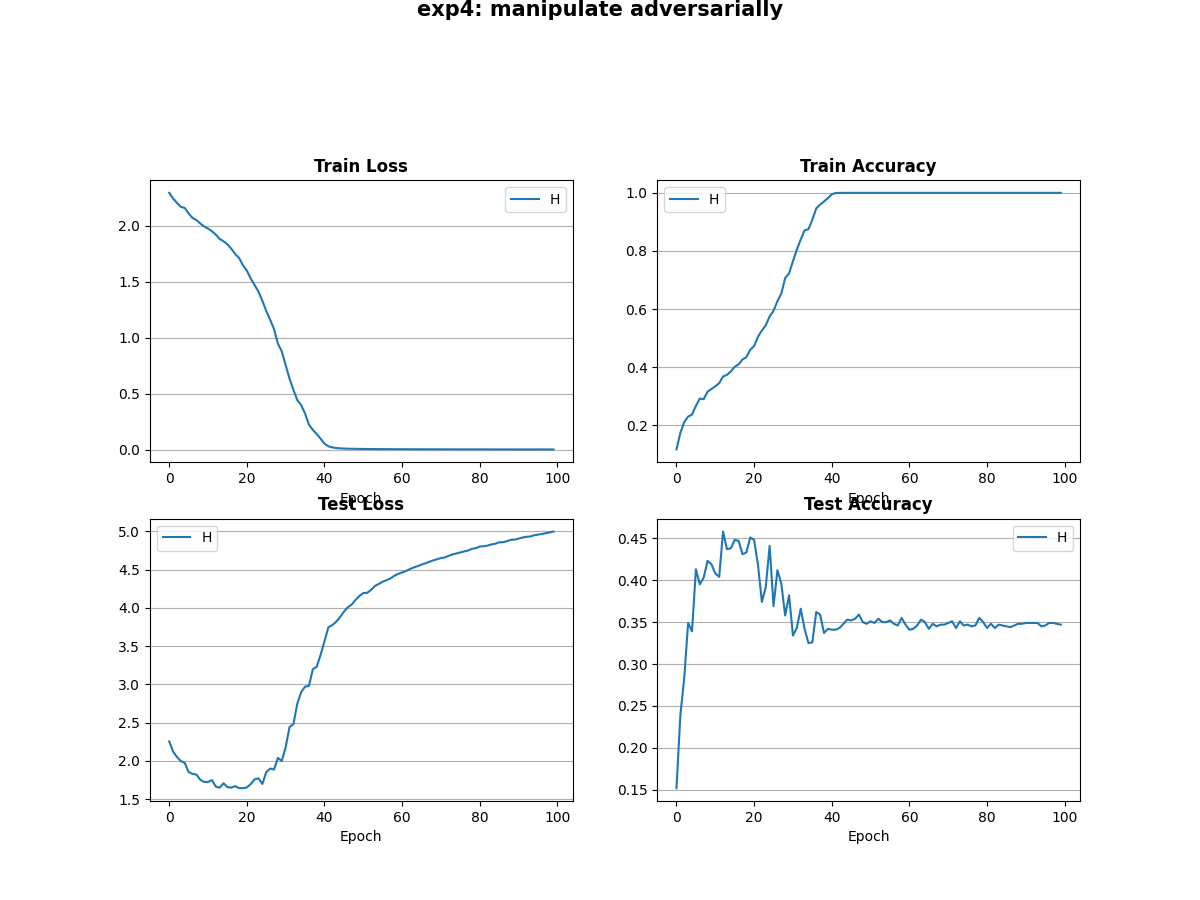
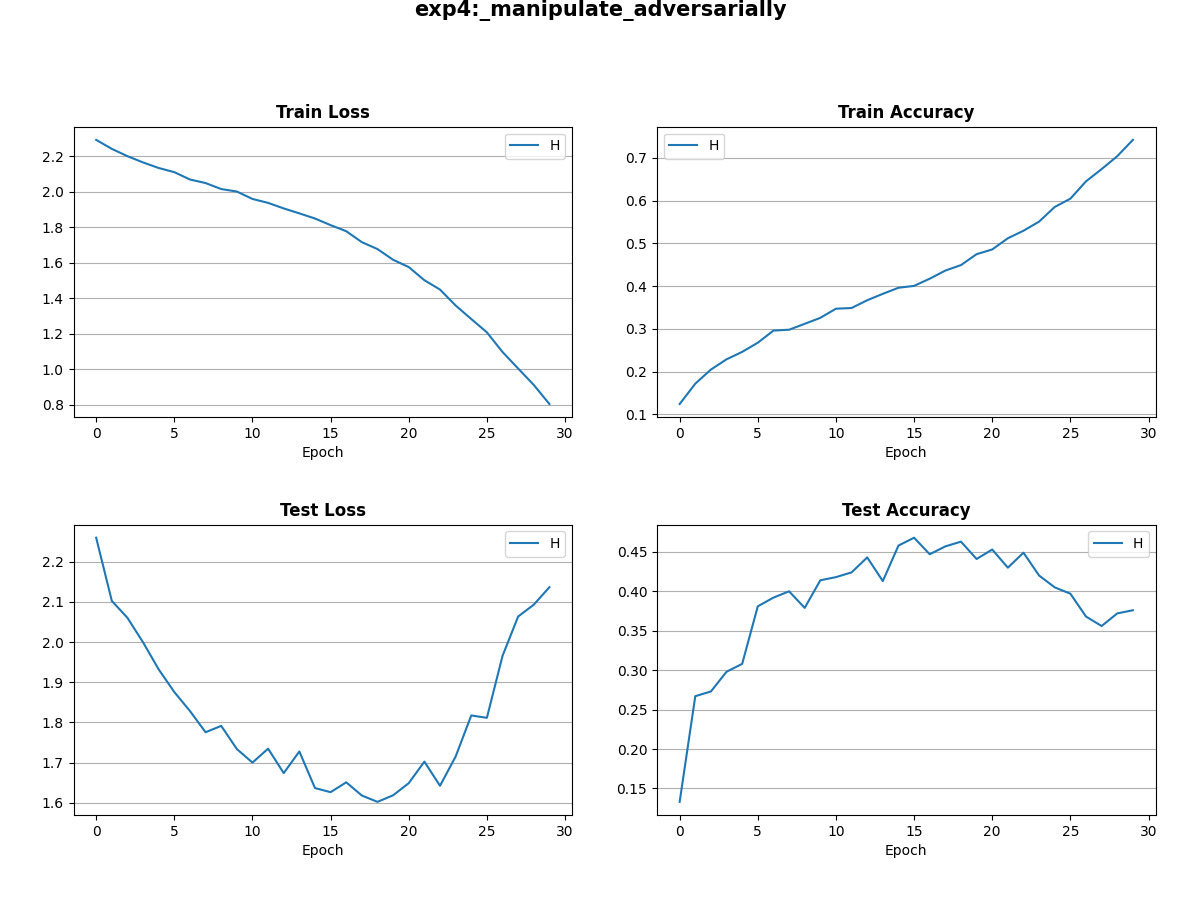
even more results

diff --git a/part3.py b/part3.py
@@ -259,7 +259,7 @@ class Part_3:
         linear_dimension = [12544]
         for channels, dim in zip(widths, linear_dimension):
             self.set_baseline_model(channels=channels, hidden_dims=(dim, 784), num_conv_layers = 2)
-            train_res, test_res, _ = self.train(num_epochs = 100)
+            train_res, test_res, _ = self.train(num_epochs = 30)
             train_results.append(train_res)
             test_results.append(test_res)
         self.comapre_plot_fig(filename=name, legend=description, param_values=widths, train_results=train_results, test_results=test_results)
